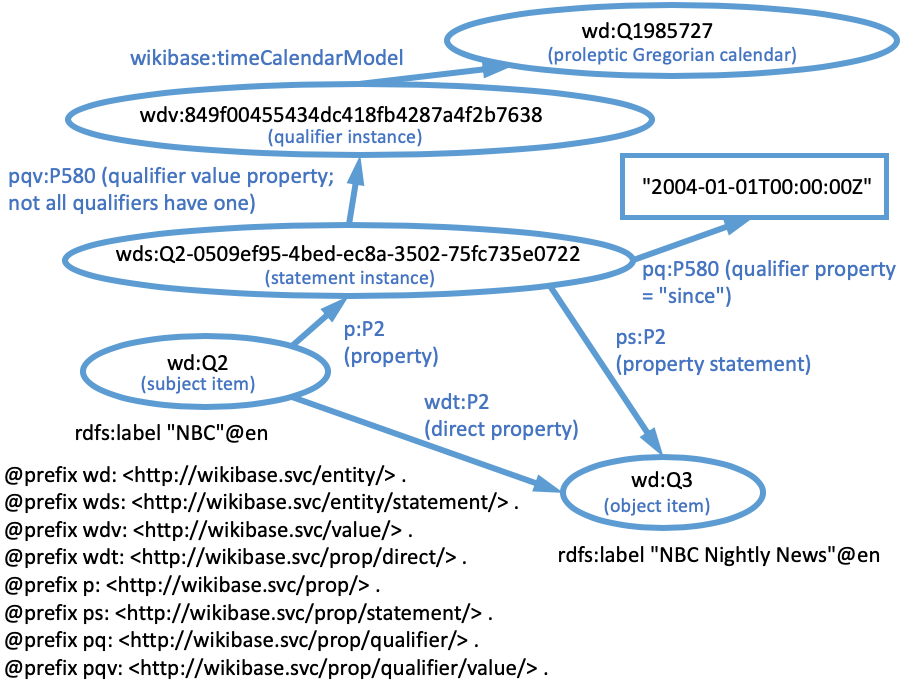
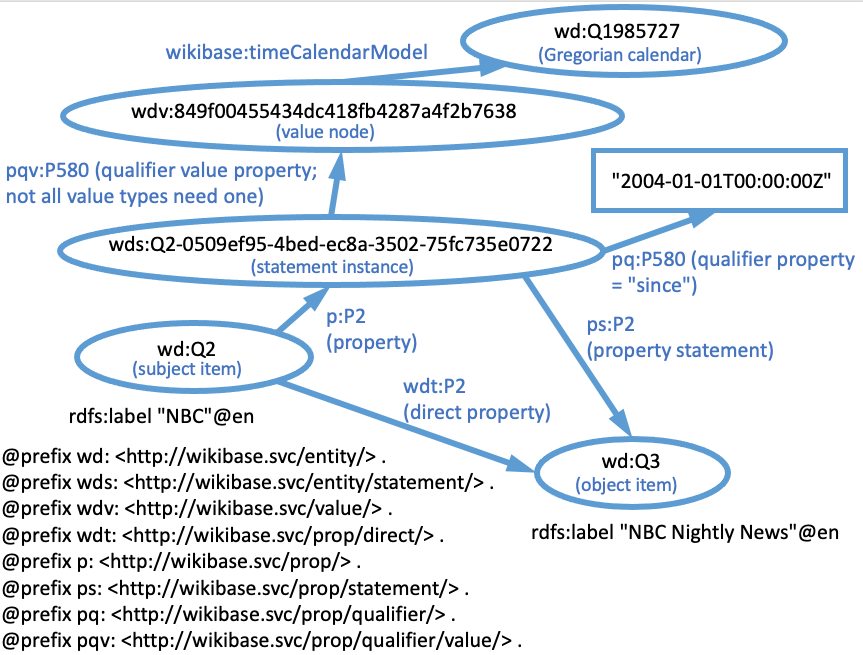
fix qualifier diagram, add value node diagram

diff --git a/lod/wikibase/index.md b/lod/wikibase/index.md
@@ -18,11 +18,10 @@ In addition to this general introduction, there are several related tutorials th
 - [Mass creation of properties in a non-Wikimedia wikibase using the VanderPropertyBot Python script](properties/)
 - [Querying a generic wikibase using SPARQL](sparql/)
 
-# Wikibase
+
+# The Wikibase data model
 
 You may already be familiar with [Wikidata](https://www.wikidata.org/), the database that supports the structured data used in Wikipedia.  Wikibase is the underlying platform on which Wikidata is built.  If you create a wikibase on a platform like wikibase.cloud, you can use it to essentially build your own personal version of Wikidata.  
-
-# The Wikidata data model
 
 The wikibase data model is a model that applies to all wikibase instances, including Wikidata.  The [technical details](https://www.mediawiki.org/wiki/Wikibase/DataModel) of the wikidata model are a bit complex, but there is a [data model primer](https://www.mediawiki.org/wiki/Wikibase/DataModel/Primer) that is more accessible.
 
@@ -138,9 +137,19 @@ We can see that Wikibase has now created a reference instance that is linked to 
 
 Since the reference instance is a IRI identified resource, we can say additional things about it.  The most important thing we want to describe is the source of the reference itself.  That connection is made by the reference property that we created (`P3`, "reference URL").  The connection is made to the URL that we provided as the value of the reference (`https://www.nbcnews.com/nightly-news`).
 
+## Value nodes
+
+Sometimes a value is too complex to be described by a single literal string or item. For example, to be fully described, a date needs the time value, the calendar model (Gregorian, Julian, etc.), and the precision of the measurement (nearest year, nearest month, nearest day, etc.). In these cases, the wikibase model creates an additional node, called a "value node" that is used to link the multiple simple values that are required to describe the complex value. 
+
+<img src="../images/value_node.png" style="border:1px solid black">
+
+The value node itself is assigned an identifier, which is a hash string appended to the `wdv:` namespace. That node is linked to the simple values by wikibase ontology properties that are specific for the type of simple value (`wikibase:timeValue`, `wikibase:timePrecision`, and `wikibase:timeCalendarModel` in the example above). 
+
+A value node can be linked from either a statement node (as a statement value or qualifier value) or from a reference node (as a reference value). Each of these kinds of links uses a property from a different namespace (`pqv:`, `prv:`, or `psv`).
+
 ## Qualifiers
 
-The other major piece of the Wikibase model is *qualifiers* that are used to provide non-reference information about the statement instance. 
+The last major piece of the Wikibase model is *qualifiers* that are used to provide non-reference information about the statement instance. 
 
 <img src="../images/wikidata-qualifier.png" style="border:1px solid black">
 
@@ -153,8 +162,6 @@ Qualifiers statements are added in the graphical interface directly below the va
 <img src="../images/wikidata-qualifier-instance.png" style="border:1px solid black">
 
 This diagram shows how the qualifier is represented as Linked Data. In this example, the qualifier value can be expressed as a literal string, so a `pq:` namespace version of the property is used to link to the literal value "2004-01-01T00:00:00Z".  
-
-!!! Todo: fix this to explain value nodes.
 
 For some qualifier properties, a second link is created to a non-literal qualifier instance. That makes it possible to create additional statements about the qualifier value itself. In this example, the qualifier value is a date, so the qualifier value instance has a `wikibase:timeCalendarModel` link to the calendar used for the date.  
 
